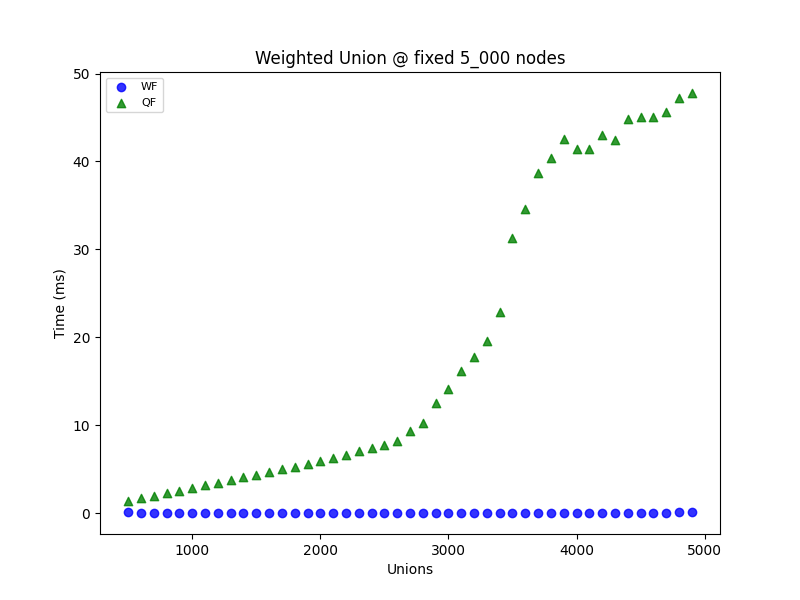
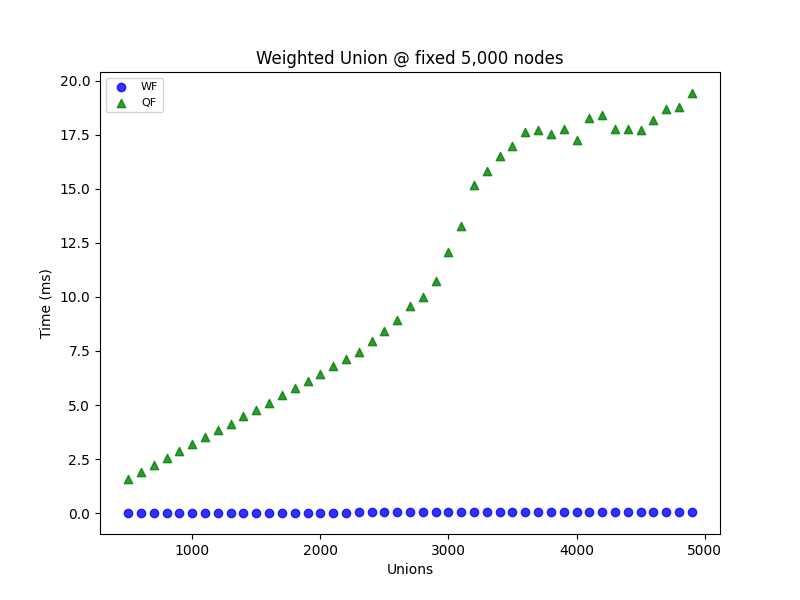
___

diff --git a/A01/src/App.java b/A01/src/App.java
@@ -60,14 +60,50 @@ public class App {
                            "Weighted UnionFind vs Quick Find  @ fixed 5_000 nodes");
 
         race.runWFvQF(5000, 100, 500, plt);
-        */
+        
+
+        plt = new Plotter<>("uf/WUFvsQFvsQU_5000_max.png",
+                            "Unions",
+                            "Time (ms)",
+                            Plotter.Type.SCATTER,
+                            "Weighted UnionFind vs QuickFind vs Quick Union @ fixed 5,000 nodes");
+        race.runAll(5000, 100, 200, plt);
+
+        plt = new Plotter<>("uf/WUFvsQFvsQU_10_000_max.png",
+                            "Unions",
+                            "Time (ms)",
+                            Plotter.Type.SCATTER,
+                            "Weighted UnionFind vs QuickFind vs Quick Union @ fixed 10,000 nodes");
+        race.runAll(10000, 100, 1000, plt);
+
+        plt = new Plotter<>("uf/WUFvsQFvsQU_20_000_max.png",
+                             "Unions", "Time (ms)",
+                            Plotter.Type.SCATTER, 
+                            "Weighted UnionFind vs QuickFind vs Quick Union @ fixed 20,000 nodes");
+        race.runAll(20000, 200, 1000, plt);
 
         
         plt = new Plotter<>("uf/WUFvsQF_5_000_max.png",
                                                         "Unions",
                                                         "Time (ms)",
-                                                        Plotter.Type.NONE,
-                                                        "Weighted Union @ fixed 5_000 nodes");
+                                                        Plotter.Type.SCATTER,
+                                                        "Weighted Union @ fixed 5,000 nodes");
         race.runWFvQF(5000, 100, 500, plt);
+        */
+
+        plt = new Plotter<>("uf/WUFvsQF_10_000_max.png",
+                                                        "Unions",
+                                                        "Time (ms)",
+                                                        Plotter.Type.SCATTER,
+                                                        "Weighted Union @ fixed 10,000 nodes");
+        race.runWFvQF(10000, 100, 500, plt);
+        
+
+        plt = new Plotter<>("uf/WUFvsQF_20_000_max.png",
+                                                        "Unions",
+                                                        "Time (ms)",
+                                                        Plotter.Type.SCATTER,
+                                                        "Weighted Union @ fixed 20,000 nodes");
+        race.runWFvQF(20000, 1000, 1000, plt);
     }
 }

diff --git a/A01/src/race/qfFixedRace.java b/A01/src/race/qfFixedRace.java
@@ -68,7 +68,7 @@ public class qfFixedRace {
         Double[] times = runWF(SIZE, unions, pltWF);
         plt.add(unions, times, "WF");
 
-        Plotter<Integer, Double> pltQF = new Plotter<>("uf/QF_"+SIZE+".png", "Unions", "Time (ms)", Plotter.Type.NONE,"Quick Find @ fixed "+SIZE+" nodes");
+        Plotter<Integer, Double> pltQF = new Plotter<>("uf/QF_"+SIZE+".png", "Unions", "Time (ms)", plt.getType(),"Quick Find @ fixed "+SIZE+" nodes");
         times = runQF(SIZE, unions, pltQF);
         plt.add(unions, times, "QF");
 
